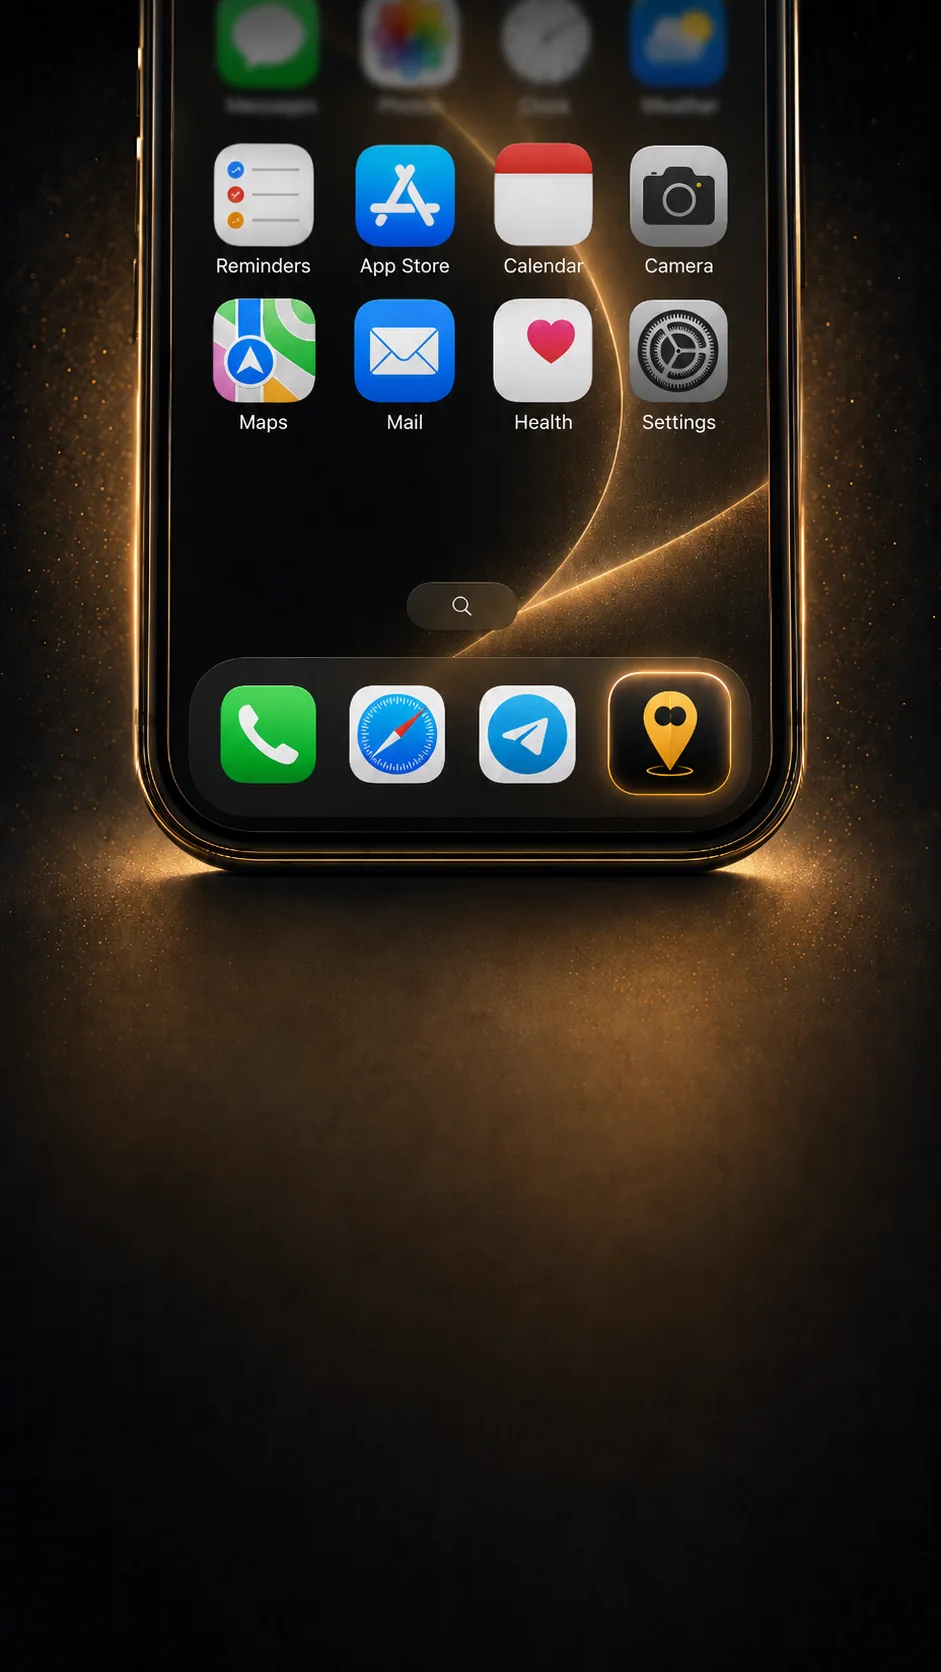
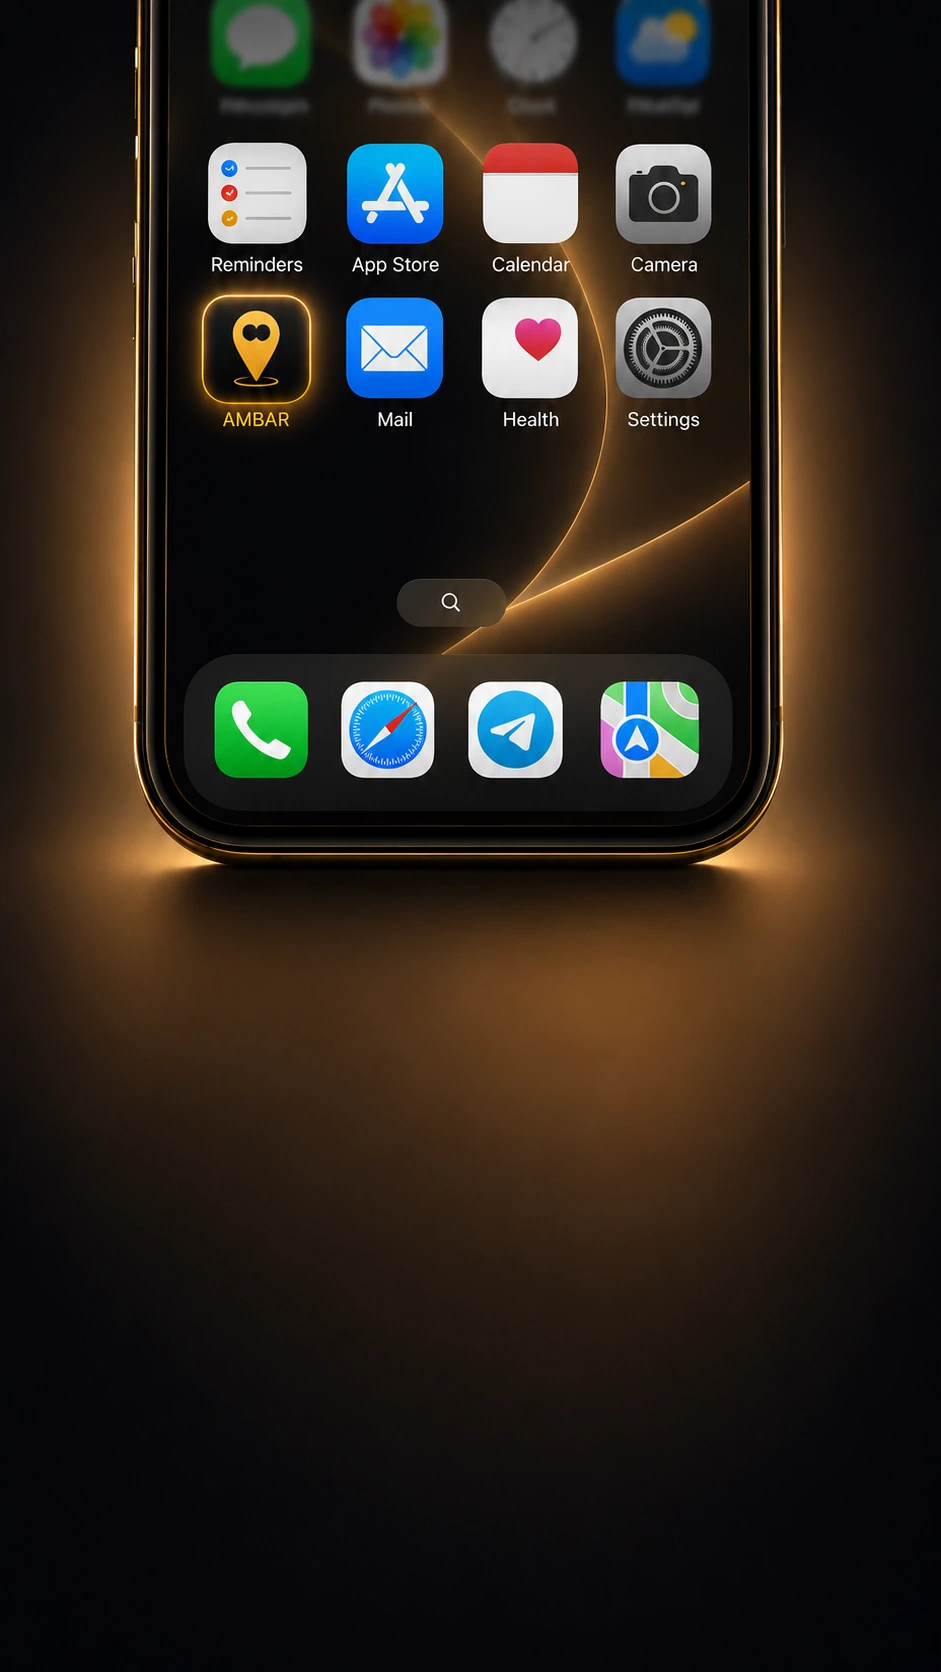
Home-screen overlay: new hero (AMBAR in grid, clean glow) + cache-bust
Swap to the updated hero: AMBAR moved up into the grid with a gold "AMBAR"
label and glow (more noticeable), Maps moved to the dock, and the gold bloom
re-rendered clean (no sparkle/grain). Re-encoded at WebP q94 (~102 KB) to keep
the gold-on-black gradient band-free. Add ?v=2 to the CSS + preloader URLs so
cached clients (Telegram) fetch the new image instead of the old one.

diff --git a/index-6.html b/index-6.html
@@ -1098,7 +1098,7 @@ body.aob-on.cpb-on .page{padding-bottom:162px}
 /* full-screen hero overlay — uses HOME_SCREEN_BG.webp as a full-bleed background */
 .hs-overlay{position:fixed;inset:0;z-index:500;background:#07070E;opacity:0;pointer-events:none;transition:opacity var(--dur-base) var(--ease-standard)}
 .hs-overlay.show{opacity:1;pointer-events:auto}
-.hs-hero-bg{position:absolute;inset:0;background:#07070E url('HOME_SCREEN_BG.webp') center top/cover no-repeat;transform:scale(1.04);transition:transform .5s var(--ease-standard)}
+.hs-hero-bg{position:absolute;inset:0;background:#07070E url('HOME_SCREEN_BG.webp?v=2') center top/cover no-repeat;transform:scale(1.04);transition:transform .5s var(--ease-standard)}
 .hs-overlay.show .hs-hero-bg{transform:scale(1)}
 /* scrim — darken the lower third so the headline/buttons stay legible over any crop */
 .hs-scrim{position:absolute;inset:0;pointer-events:none;background:linear-gradient(to bottom,transparent 36%,rgba(7,7,14,.45) 56%,rgba(7,7,14,.9) 78%,#07070E 100%)}
@@ -3557,7 +3557,7 @@ function _preloadHsHero(){
     const finish=ok=>{ if(done)return; done=true; _hsHeroReady=ok; resolve(ok); };
     img.onload=()=>finish(true);
     img.onerror=()=>finish(false);
-    img.src='HOME_SCREEN_BG.webp';
+    img.src='HOME_SCREEN_BG.webp?v=2';
     if(img.complete && img.naturalWidth) finish(true); // already in cache
     setTimeout(()=>finish(false), 5000);               // hard cap — don't wait forever
   });
